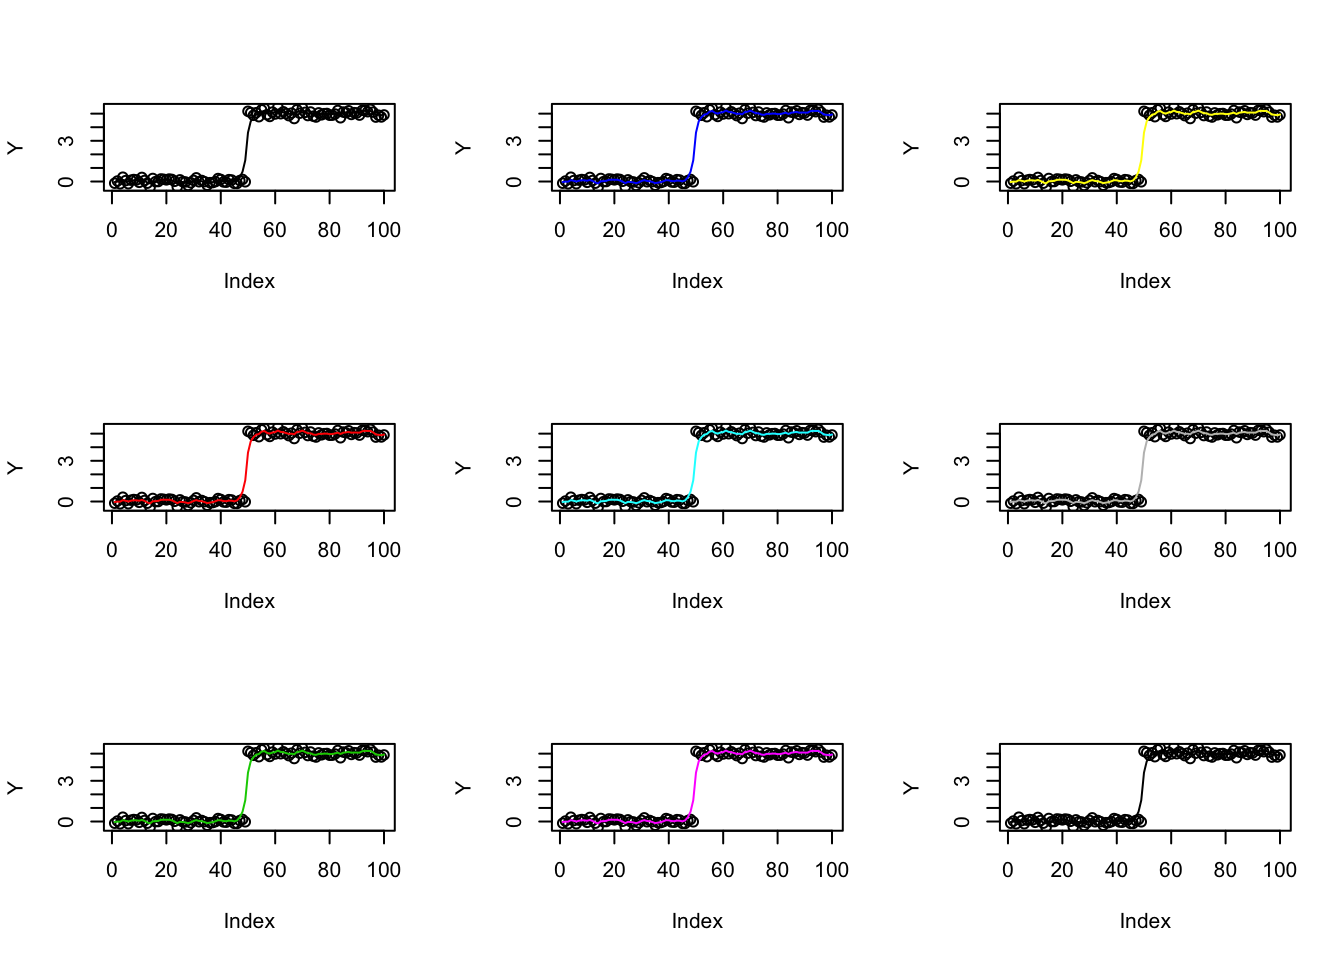
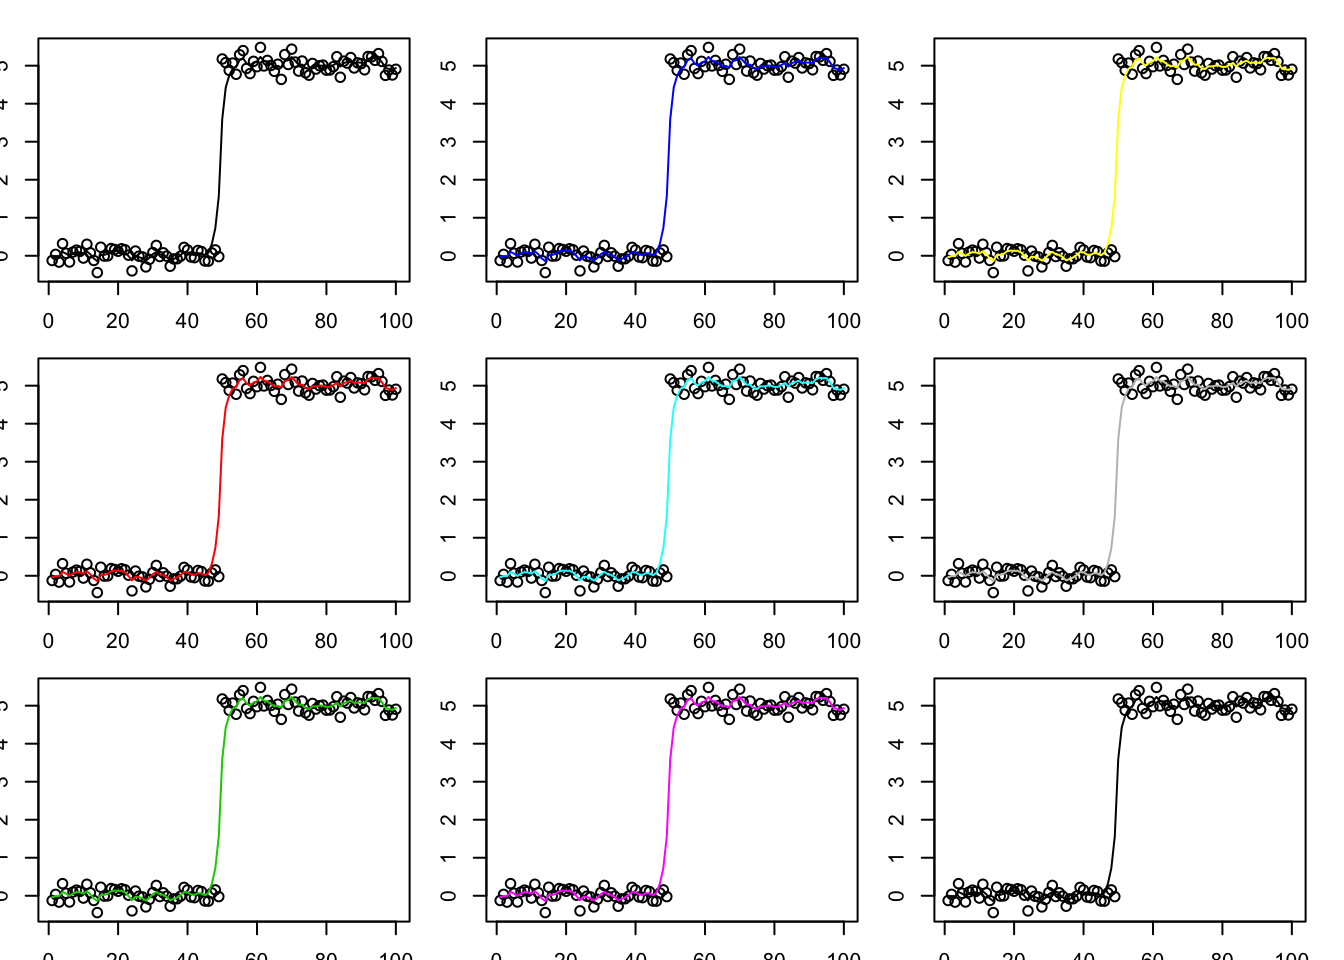
Build site.

diff --git a/docs/ridge_eb.html b/docs/ridge_eb.html
@@ -492,16 +492,16 @@ This reproducible <a href="http://rmarkdown.rstudio.com">R Markdown</a> analysis
 <div class="panel panel-default">
 <div class="panel-heading">
 <p class="panel-title">
-<a data-toggle="collapse" data-parent="#workflowr-checks" href="#strongRepositoryversionstrongahrefhttpsgithubcomstephens999misctreef3ee9c656153b2b30bbc53a85f55df7b677757b1targetblankf3ee9c6a"> <span class="glyphicon glyphicon-ok text-success" aria-hidden="true"></span> <strong>Repository version:</strong> <a href="https://github.com/stephens999/misc/tree/f3ee9c656153b2b30bbc53a85f55df7b677757b1" target="_blank">f3ee9c6</a> </a>
+<a data-toggle="collapse" data-parent="#workflowr-checks" href="#strongRepositoryversionstrongahrefhttpsgithubcomstephens999misctree0180b7940615bebbeaf87761bf87f103638d41b4targetblank0180b79a"> <span class="glyphicon glyphicon-ok text-success" aria-hidden="true"></span> <strong>Repository version:</strong> <a href="https://github.com/stephens999/misc/tree/0180b7940615bebbeaf87761bf87f103638d41b4" target="_blank">0180b79</a> </a>
 </p>
 </div>
[2 lines of base64/hex data omitted]
 <div class="panel-body">
 <p>
 Great! You are using Git for version control. Tracking code development and connecting the code version to the results is critical for reproducibility.
 </p>
 <p>
-The results in this page were generated with repository version <a href="https://github.com/stephens999/misc/tree/f3ee9c656153b2b30bbc53a85f55df7b677757b1" target="_blank">f3ee9c6</a>. See the <em>Past versions</em> tab to see a history of the changes made to the R Markdown and HTML files.
+The results in this page were generated with repository version <a href="https://github.com/stephens999/misc/tree/0180b7940615bebbeaf87761bf87f103638d41b4" target="_blank">0180b79</a>. See the <em>Past versions</em> tab to see a history of the changes made to the R Markdown and HTML files.
 </p>
 <p>
 Note that you need to be careful to ensure that all relevant files for the analysis have been committed to Git prior to generating the results (you can use <code>wflow_publish</code> or <code>wflow_git_commit</code>). workflowr only checks the R Markdown file, but you know if there are other scripts or data files that it depends on. Below is the status of the Git repository when the results were generated:
@@ -679,6 +679,40 @@ Message
 </tr>
 </thead>
 <tbody>
+<tr>
+<td>
+Rmd
+</td>
+<td>
+<a href="https://github.com/stephens999/misc/blob/0180b7940615bebbeaf87761bf87f103638d41b4/analysis/ridge_eb.Rmd" target="_blank">0180b79</a>
+</td>
+<td>
+Matthew Stephens
+</td>
+<td>
+2020-05-22
+</td>
+<td>
+workflowr::wflow_publish(“ridge_eb.Rmd”)
+</td>
+</tr>
+<tr>
+<td>
+html
+</td>
+<td>
+<a href="https://rawcdn.githack.com/stephens999/misc/d2376b6422fbb2e5fd737253e44f69504796f923/docs/ridge_eb.html" target="_blank">d2376b6</a>
+</td>
+<td>
+Matthew Stephens
+</td>
+<td>
+2020-05-22
+</td>
+<td>
+Build site.
+</td>
+</tr>
 <tr>
 <td>
 Rmd
@@ -1288,7 +1322,7 @@ Matthew Stephens
 </table>
 </div>
 </div>
-<pre class="r"><code>par(mfcol=c(3,3))
+<pre class="r"><code>par(mfcol=c(3,3),  mai=rep(0.2,4))
 Xnew=X
 for(i in 1:9){
   Xnew = t(t(Xnew)*as.vector(fit.eb$post_mean))
@@ -1319,6 +1353,17 @@ Date
 </tr>
 </thead>
 <tbody>
+<tr>
+<td>
+<a href="https://github.com/stephens999/misc/blob/d2376b6422fbb2e5fd737253e44f69504796f923/docs/figure/ridge_eb.Rmd/unnamed-chunk-5-3.png" target="_blank">d2376b6</a>
+</td>
+<td>
+Matthew Stephens
+</td>
+<td>
+2020-05-22
+</td>
+</tr>
 <tr>
 <td>
 <a href="https://github.com/stephens999/misc/blob/3662f53a1e26acce0488680eb1685b16c3db468b/docs/figure/ridge_eb.Rmd/unnamed-chunk-5-3.png" target="_blank">3662f53</a>
@@ -1421,7 +1466,7 @@ Matthew Stephens
 </table>
 </div>
 </div>
-<pre class="r"><code>par(mfcol=c(3,3))
+<pre class="r"><code>par(mfcol=c(3,3),  mai=rep(0.2,4))
 Xnew=X
 for(i in 1:9){
   Xnew = t(t(Xnew)*as.vector(fit.eb$post_mean))
@@ -1452,6 +1497,17 @@ Date
 </tr>
 </thead>
 <tbody>
+<tr>
+<td>
+<a href="https://github.com/stephens999/misc/blob/d2376b6422fbb2e5fd737253e44f69504796f923/docs/figure/ridge_eb.Rmd/unnamed-chunk-6-3.png" target="_blank">d2376b6</a>
+</td>
+<td>
+Matthew Stephens
+</td>
+<td>
+2020-05-22
+</td>
+</tr>
 <tr>
 <td>
 <a href="https://github.com/stephens999/misc/blob/3662f53a1e26acce0488680eb1685b16c3db468b/docs/figure/ridge_eb.Rmd/unnamed-chunk-6-3.png" target="_blank">3662f53</a>
@@ -1553,7 +1609,7 @@ Matthew Stephens
 </table>
 </div>
 </div>
-<pre class="r"><code>par(mfcol=c(3,3))
+<pre class="r"><code>par(mfcol=c(3,3),  mai=rep(0.2,4))
 Xnew=X
 for(i in 1:9){
   Xnew = t(t(Xnew)*as.vector(fit.eb$post_mean))
@@ -1584,6 +1640,17 @@ Date
 </tr>
 </thead>
 <tbody>
+<tr>
+<td>
+<a href="https://github.com/stephens999/misc/blob/d2376b6422fbb2e5fd737253e44f69504796f923/docs/figure/ridge_eb.Rmd/unnamed-chunk-7-3.png" target="_blank">d2376b6</a>
+</td>
+<td>
+Matthew Stephens
+</td>
+<td>
+2020-05-22
+</td>
+</tr>
 <tr>
 <td>
 <a href="https://github.com/stephens999/misc/blob/3662f53a1e26acce0488680eb1685b16c3db468b/docs/figure/ridge_eb.Rmd/unnamed-chunk-7-3.png" target="_blank">3662f53</a>
